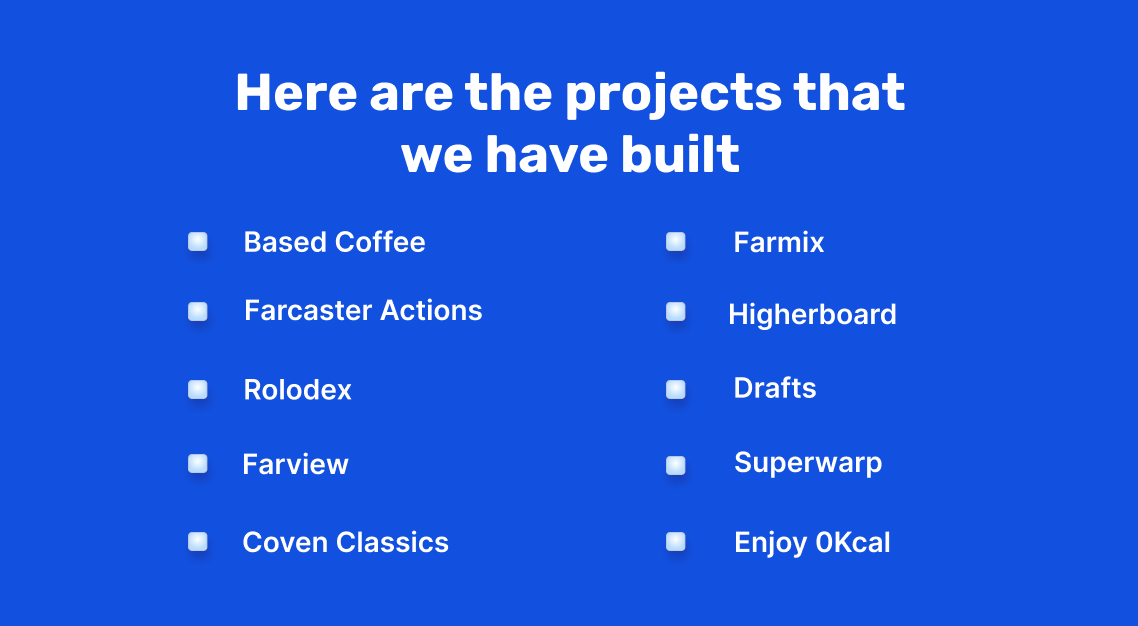
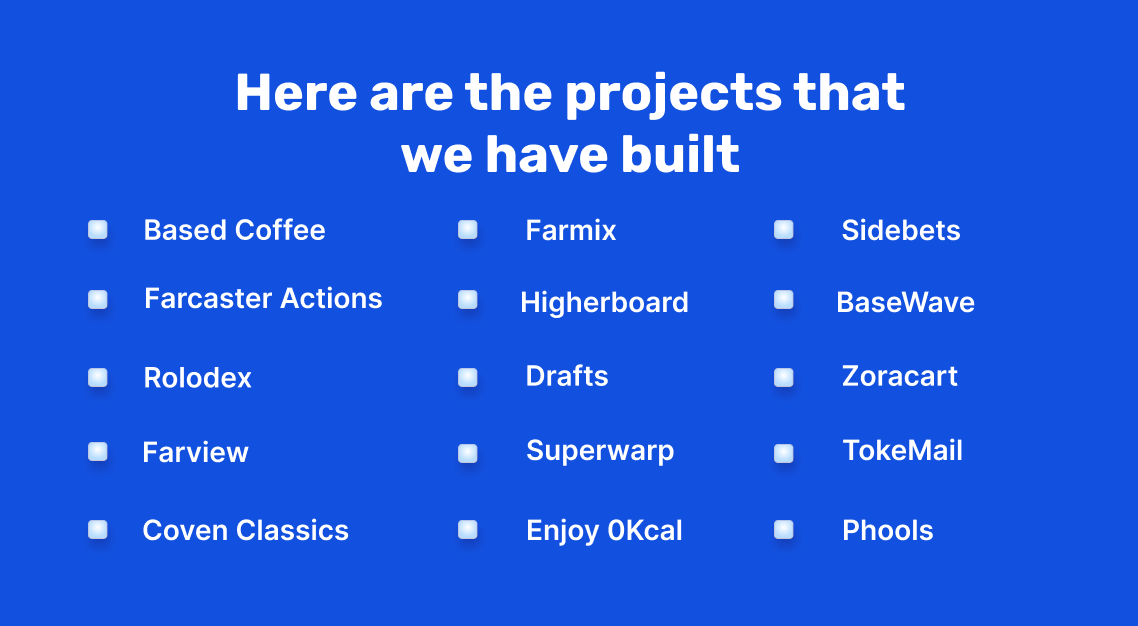
all projects

diff --git a/app/utils/projectArray.ts b/app/utils/projectArray.ts
@@ -1,9 +1,33 @@
 export const dummyProjects = [
     {
-        name: "Enjoy 0kcal",
-        fid: 3307,
-        wallet: "0xAF23D4e2108e2098d7C4ff56e329e36fef358253",
-        imageName: "enjoy0kcal.png"
+        name: "Sidebets",
+        fid: 1265,
+        wallet: "0xab14023979a34b4abb17abd099a1de1dc452011a",
+        imageName: "sidebets.png"
+    },
+    {
+        name: "TokeMail",
+        fid: 486287,
+        wallet: "0x3a2b4a32cf84a0fa5d3fdcff818ebe9aa2bd3c94",
+        imageName: "tokemail.png"
+    },
+    {
+        name: "Base Wave",
+        fid: 474185,
+        wallet: "0x8525f916f69A8465e4Ef3651A73Abf72fB4E4DC8",
+        imageName: "basewave.png"
+    },
+    {
+        name: "Zoracart",
+        fid: 17979,
+        wallet: "0x22b2DD2CFEF2018D15543c484aceF6D9B5435863",
+        imageName: "zoracart.png"
+    },
+    {
+        name: "Phools",
+        fid: 344145,
+        wallet: "0xf8c80ebf80ff0c17bdfbc08a91e64a890aae8e3c",
+        imageName: "phools.png"
     },
     {
         name: "Based Coffee",
@@ -24,11 +48,6 @@ export const dummyProjects = [
         imageName: "farmix.png"
     },
     {
-        name: "Farcaster Actions",
-        fid: 9369,
-        imageName: "fc-actions.png"
-    },
-    {
         name: "Rolodex",
         fid: 11155,
         wallet: "0x0674ab75Cbf5f3165Fe70BE116Bed13DF134664A",
@@ -41,12 +60,6 @@ export const dummyProjects = [
         imageName: "higherboard.png"
     },
     {
-        name: "Farview",
-        fid: 244416,
-        wallet: "0x3039e4a4a540F35ae03A09f3D5A122c49566f919",
-        imageName: "farview.png"
-    },
-    {
         name: "Coven Classics",
         fid: 4027,
         wallet: "0x3a2FaC2AB3cf4bc342910EAC744CC68C8b9a69bf",
@@ -57,5 +70,22 @@ export const dummyProjects = [
         fid: 1350,
         wallet: "0xbC7B5142e390BBaABF8826dAE7E1ef9C609Df327",
         imageName: "superwarp.png"
-    }
+    },
+    {
+        name: "Farcaster Actions",
+        fid: 9369,
+        imageName: "fc-actions.png"
+    },
+    {
+        name: "Farview",
+        fid: 244416,
+        wallet: "0x3039e4a4a540F35ae03A09f3D5A122c49566f919",
+        imageName: "farview.png"
+    },
+    {
+        name: "Enjoy 0kcal",
+        fid: 3307,
+        wallet: "0xAF23D4e2108e2098d7C4ff56e329e36fef358253",
+        imageName: "enjoy0kcal.png"
+    },
 ];
